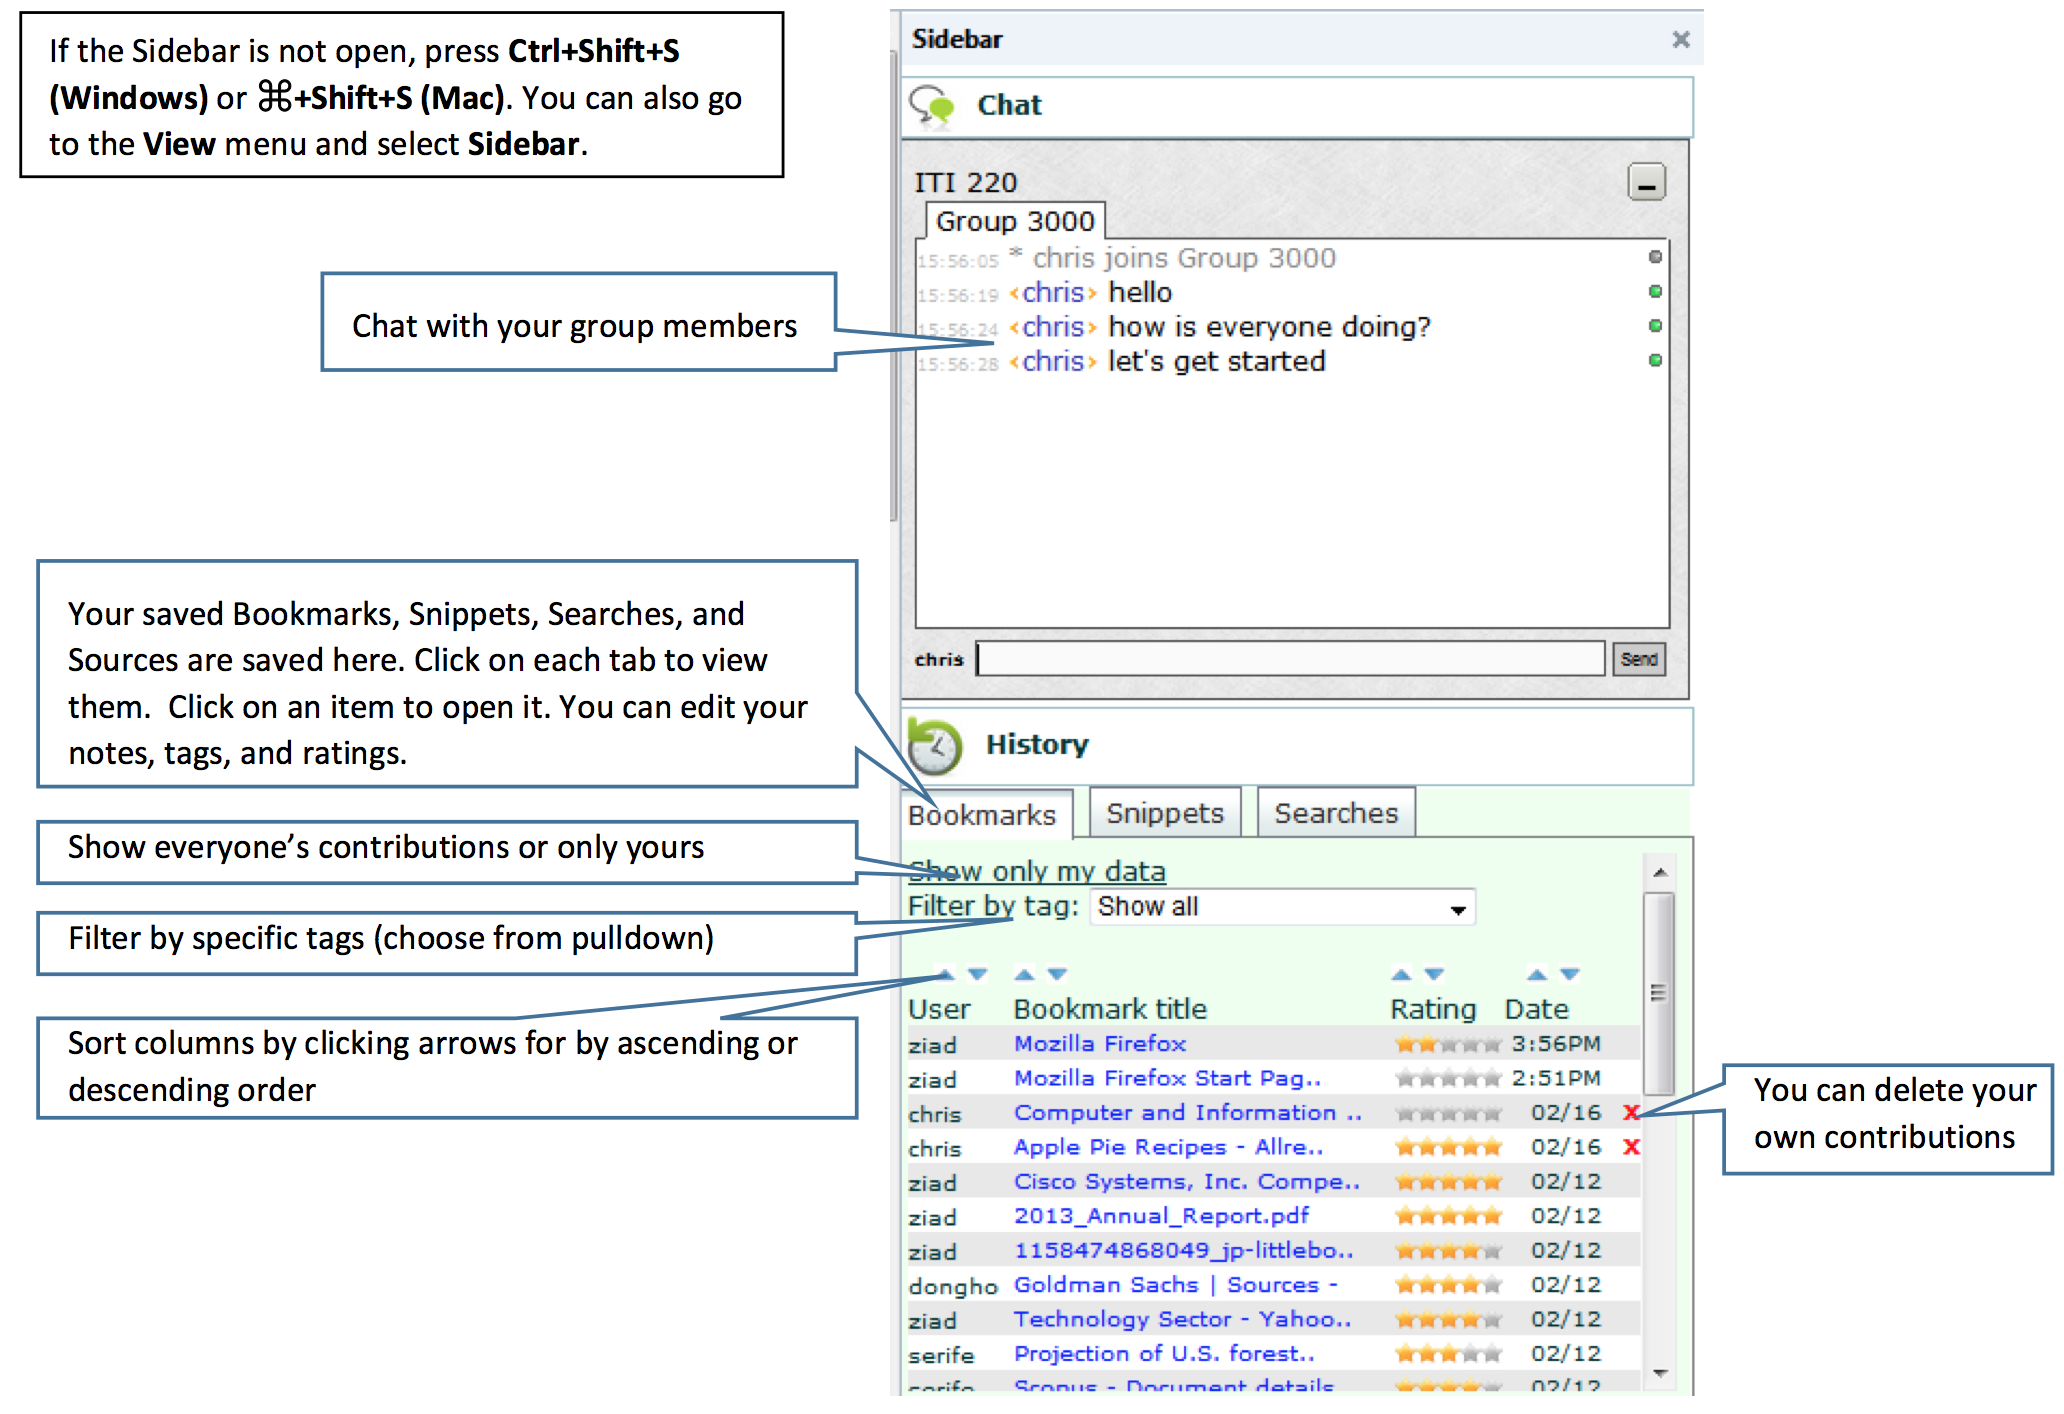
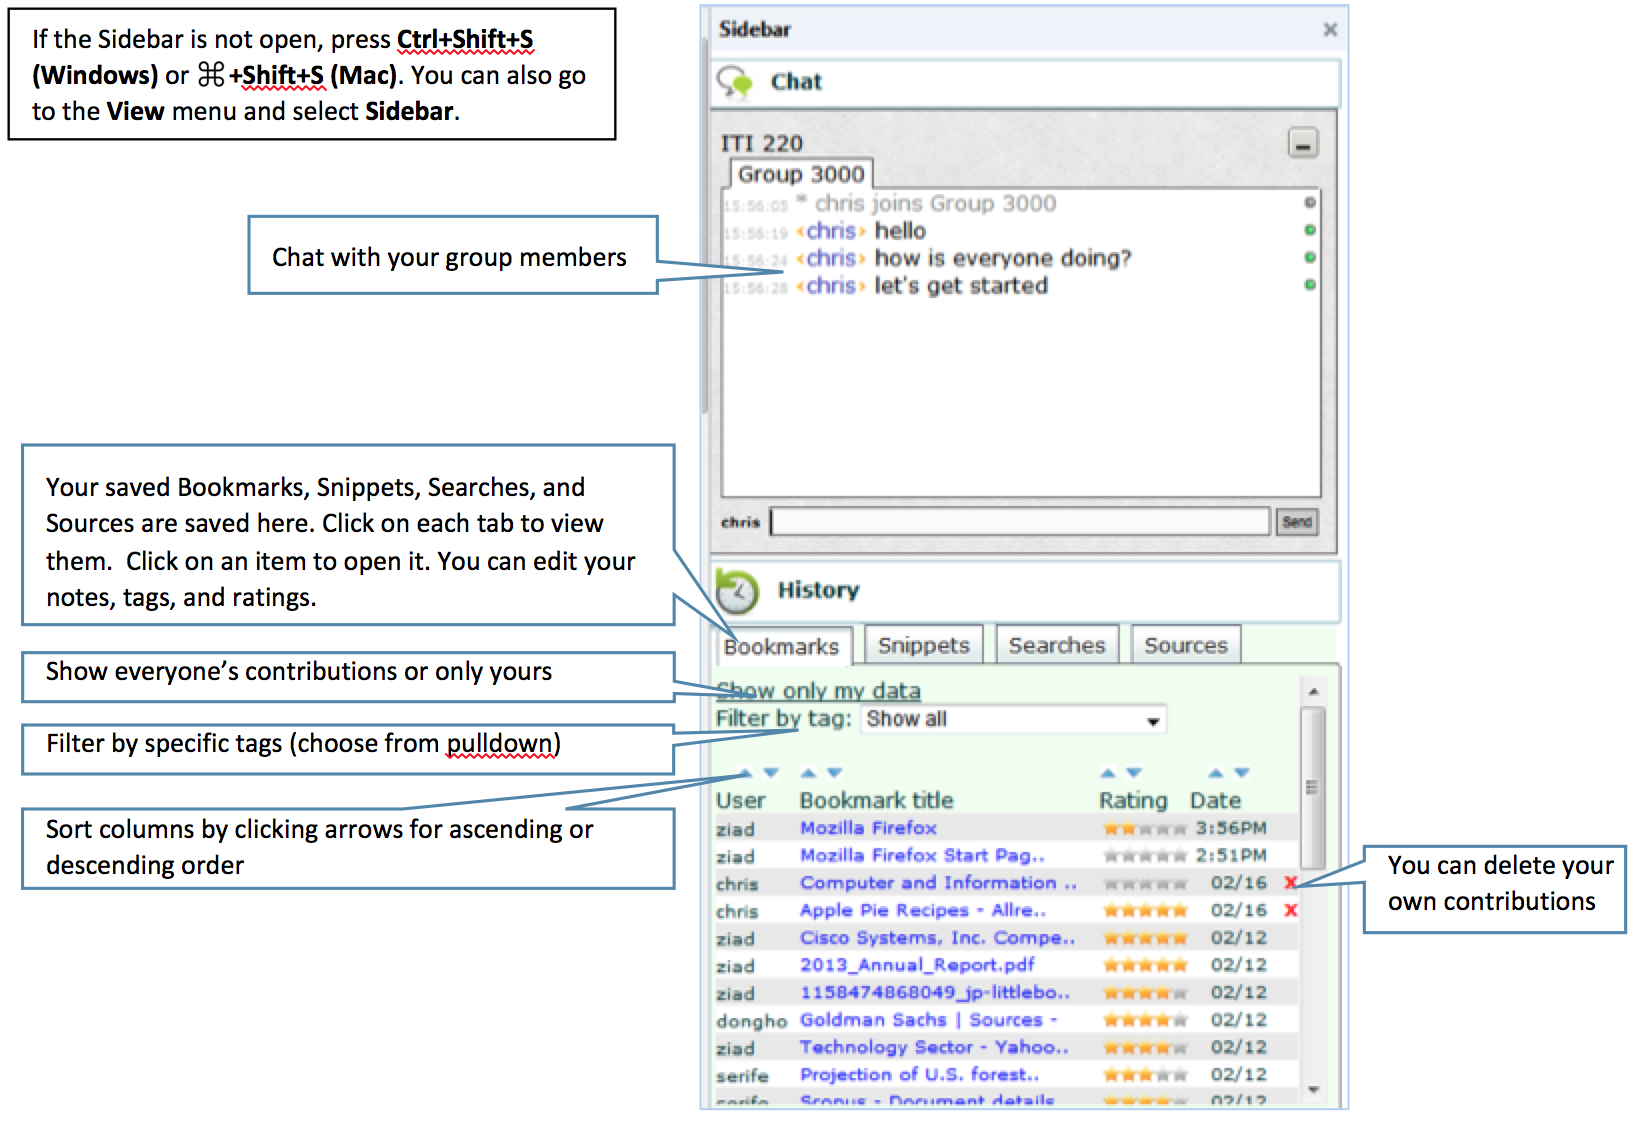
Updated Help instructions.

Changed region(s): [[0.0, 0.0, 0.9976, 0.9964], [0.6858, 0.6228, 0.717, 0.6539]]

diff --git a/spring2015/services/getInstructions.php b/spring2015/services/getInstructions.php
@@ -333,10 +333,11 @@ while you research. -->
 <ul>
 <li>Work together with your group to search for information on your topic, evaluate its quality, and synthesize what you've all learned into your written report.</li>
 <li>Focus your time on finding and selecting quality information and building a consensus with your group about which information is best for your topic.</li>
-<li>Use the star ratings in the History/Bookmarks section of the Sidebar to rate the best sources.</li>
+<li>While searching, open new tabs in Firefox. Do not open new browser windows.</li>
 <li>Remember to use the Chat window to explain to your group what you're doing, and explain your reasoning.</li>
 <li>Use the text editor to save notes, work on your outline, and organize your report.</li>
-<li><strong>While searching, open new tabs in Firefox.  Do not open new browser windows.</strong></li>
+<li>Export or copy and paste your text into a word processer when you are ready to format it.</li>
+<li><strong>Be sure to LOGOUT of Coagmento when you are done working.</strong> Your activity will not be recorded after you log out.</li>
 </ul>
 <?php
     }
